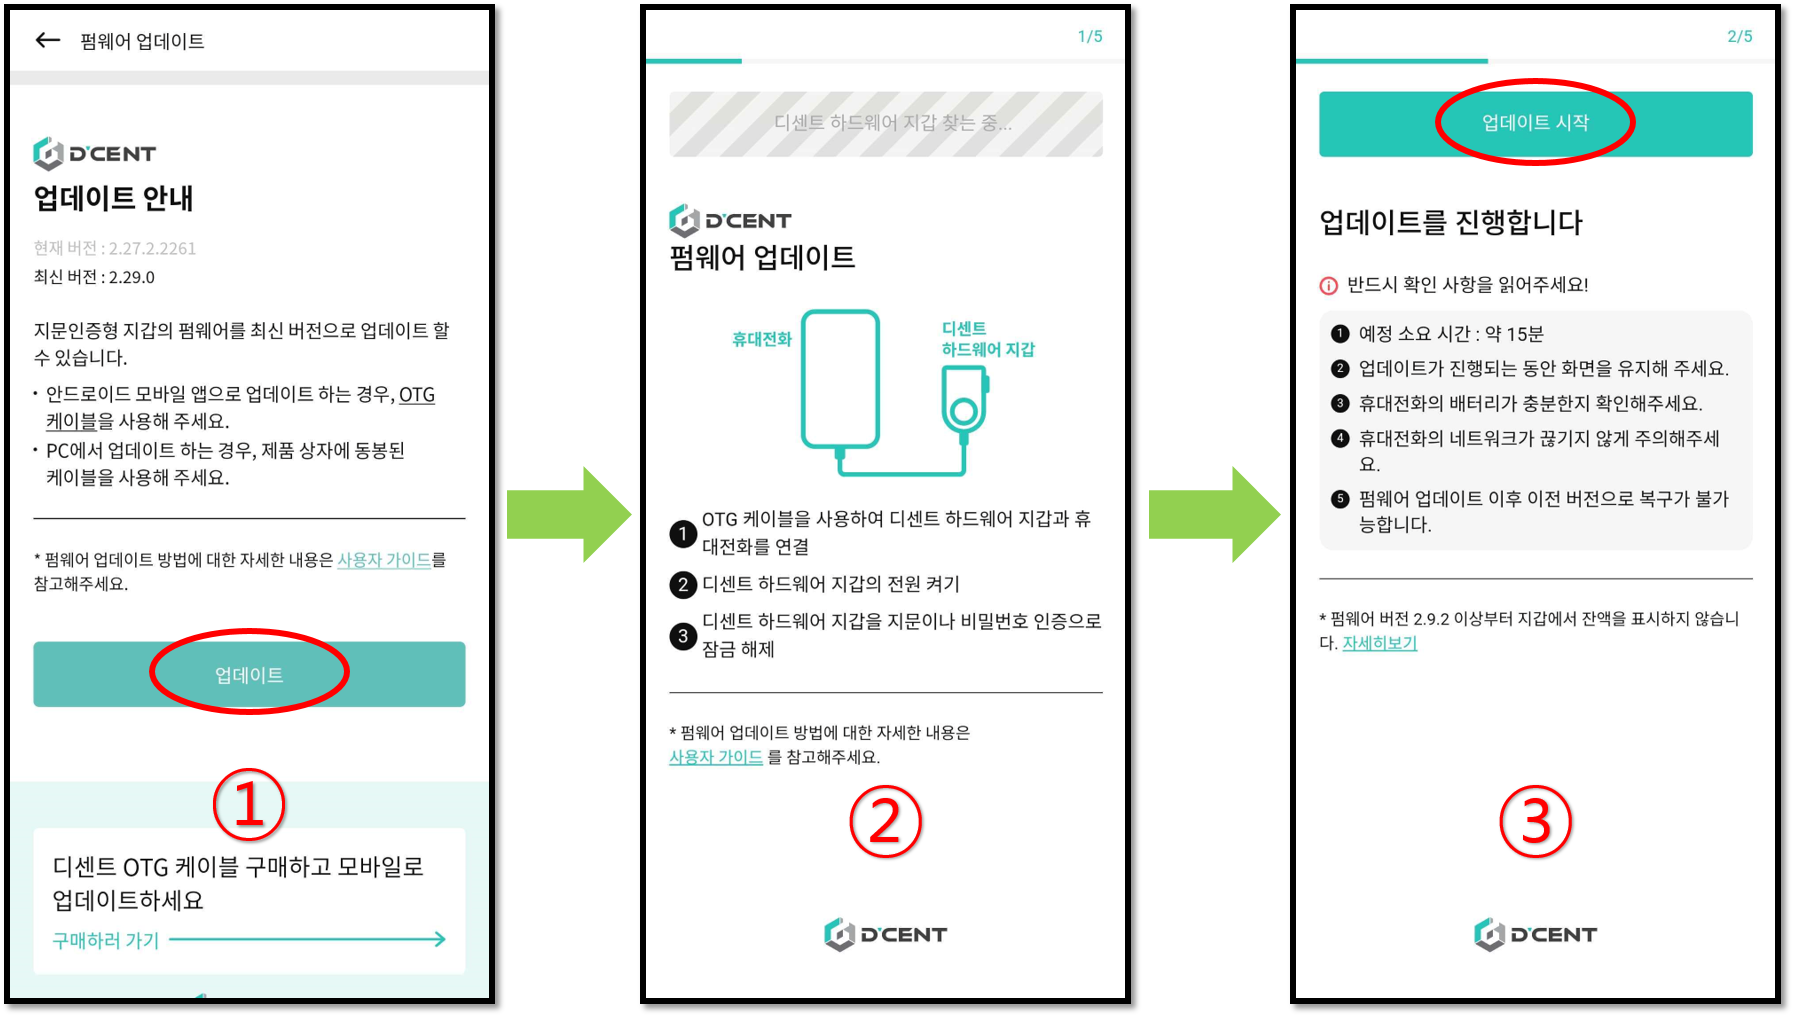
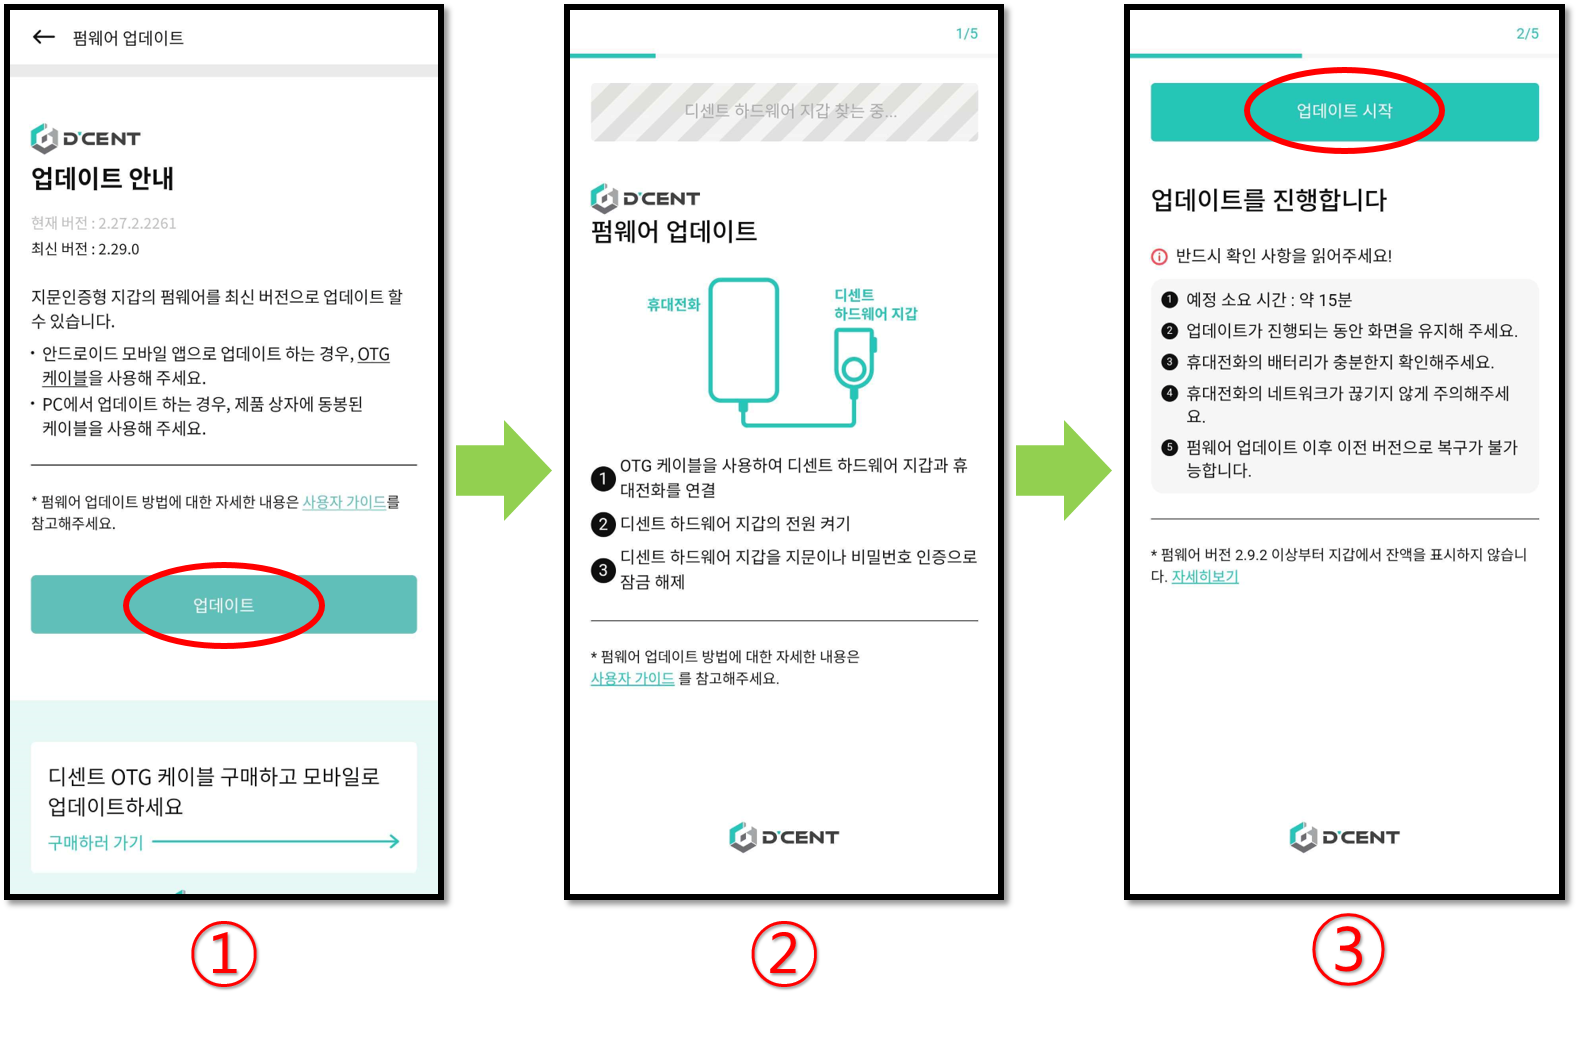
GITBOOK-591: change request with no subject merged in GitBook

Changed region(s): [[0.0, 0.0, 1.0, 1.0], [0.0, 0.0, 0.1242, 0.061]]

diff --git a/biometric-wallet/firmware-update-from-mobile.md b/biometric-wallet/firmware-update-from-mobile.md
@@ -58,7 +58,11 @@ Settings 탭으로 이동하여 **펌웨어 업데이트**를 누릅니다.
 
 ### 펌웨어 업데이트 진행
 
-![](../.gitbook/assets/펌웨어03.png)
+<div align="left">
+
+<img src="../.gitbook/assets/펌웨어03.png" alt="">
+
+</div>
 
 **1. "업데이트"** 버튼을 누릅니다.&#x20;
 
@@ -66,7 +70,11 @@ Settings 탭으로 이동하여 **펌웨어 업데이트**를 누릅니다.
 
 **3.** 다음 화면에서 "**업데이트 시작"** 버튼을 누릅니다.
 
-![](../.gitbook/assets/펌웨어04.png)
+<div align="left">
+
+<img src="../.gitbook/assets/펌웨어04.png" alt="">
+
+</div>
 
 **4.** "**부트로더 모드로 재부팅"** 버튼을 누릅니다.&#x20;
 
@@ -74,7 +82,11 @@ Settings 탭으로 이동하여 **펌웨어 업데이트**를 누릅니다.
 
 **6.** **"업데이트 계속"** 버튼을 눌러주세요.
 
-![](../.gitbook/assets/펌웨어05.png)
+<div align="left">
+
+<img src="../.gitbook/assets/펌웨어05.png" alt="" width="563">
+
+</div>
 
 **7.** 펌웨어 업데이트가 완료될 때 까지 (약 10분 소요) 기다려주세요. 업데이트가 완료되면 지문인증형 지갑이 자동으로 정상 모드로 재부팅됩니다.&#x20;
 
